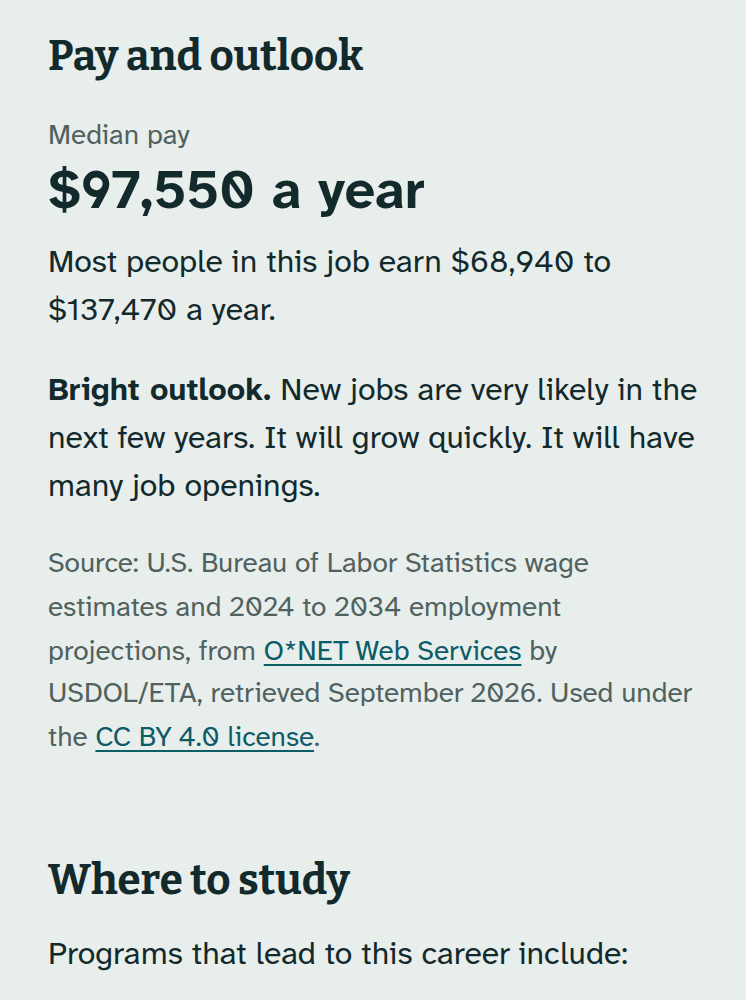
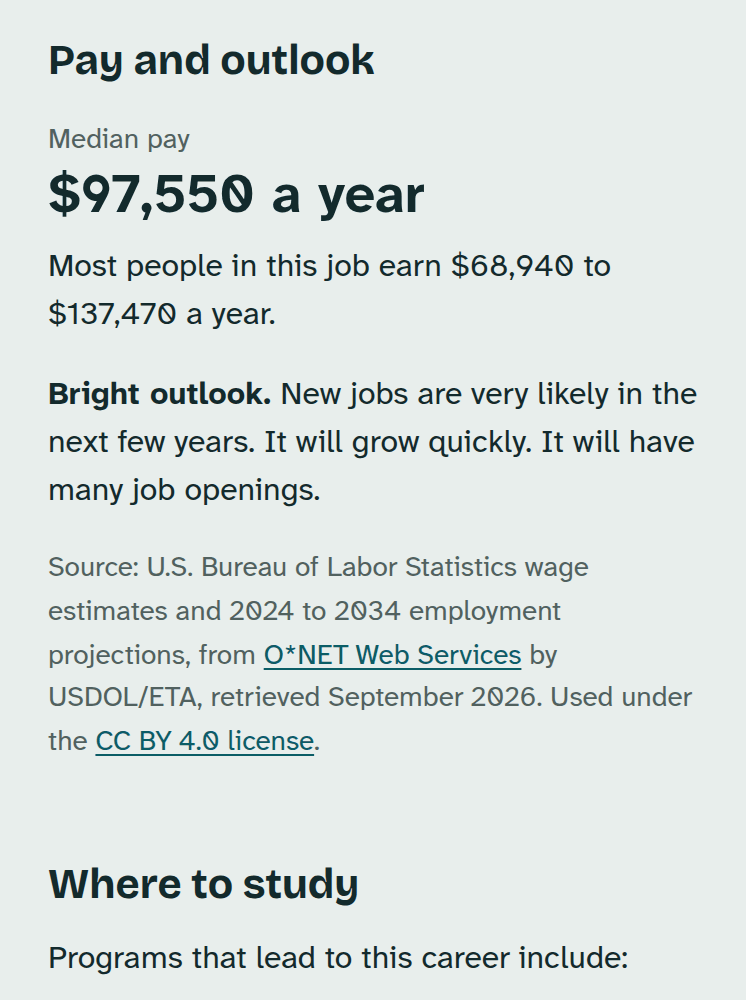
docs: re-take home screenshots with Bricolage headings; log CLS fix
career, colleges and scholarships at 390px/2x from a prod build, same
framing as before, quantized to 256 colors (~45 KB each). plan.png still
needs a signed-in test account.

diff --git a/docs/PROGRESS.md b/docs/PROGRESS.md
@@ -4,13 +4,8 @@ Agents: read this first each session; add an entry at the end of each session.
 Newest entries at the top. Keep each entry short.
 
 ## Next up
-- [ ] Pages with a loading skeleton (career search, career, colleges,
-      scholarships) shift the footer when content streams in (CLS 0.12 to
-      0.29, found 2026-10-04; older than the redesign). One fix: give
-      `<main>` a minimum height so the footer starts below the fold.
-- [ ] Re-take the home page screenshots (`public/screenshots/`) so they
-      show the Bricolage headings and stone buttons; the plan one needs a
-      test account.
+- [ ] Re-take `public/screenshots/plan.png` (needs a signed-in test
+      account) so it shows the Bricolage headings like the other three.
 - [ ] **Owner, before launch (security audit 2026-09-29):** turn on
       "Secure password change" in the development project's Auth settings
       now (LAUNCH.md step 3 covers production). Sign-in rate limits are
@@ -37,6 +32,14 @@ Newest entries at the top. Keep each entry short.
       own judgment; easy to change in one migration)
 
 ## Log
+### 2026-10-04: Footer layout shift fixed; home screenshots re-taken
+- `<main>` is at least one screen tall (min-h-svh), so a short loading
+  skeleton no longer pushes the footer: CLS 0 on six pages at 320/390/1280
+  (was 0.10 to 0.30 on phones).
+- career, colleges and scholarships screenshots re-taken (390px, 2x, prod
+  build, signed out, quantized to about 45 KB). plan.png still old.
+- `.claude/reports/` (local telemetry) is gitignored.
+
 ### 2026-10-04: Depth, motion and the 3D stepwell (spec ui-depth-and-motion)
 - Owner chose: evolve Water and Stone, Bricolage Grotesque headings, an
   interactive 3D stepwell, stone keycap buttons. Decision 0010 relaxes the

diff --git a/docs/specs/ui-depth-and-motion.md b/docs/specs/ui-depth-and-motion.md
@@ -80,7 +80,8 @@ Everywhere
       Pages with a loading skeleton (career search, career, colleges,
       scholarships) score 0.12 to 0.29 because the footer moves when the
       content streams in; same scores with the crossfade removed, so it
-      predates this work (see PROGRESS "Next up").
+      predated this work. Fixed after: `<main>` is at least one screen
+      tall (min-h-svh), CLS 0 on six pages at 320/390/1280.
 - [x] Every changed page checked against AVOID.md at 320, 390 and 1280px,
       and at 200% zoom.
 - [x] `npm run check` passes, including a test for the tilt math.
